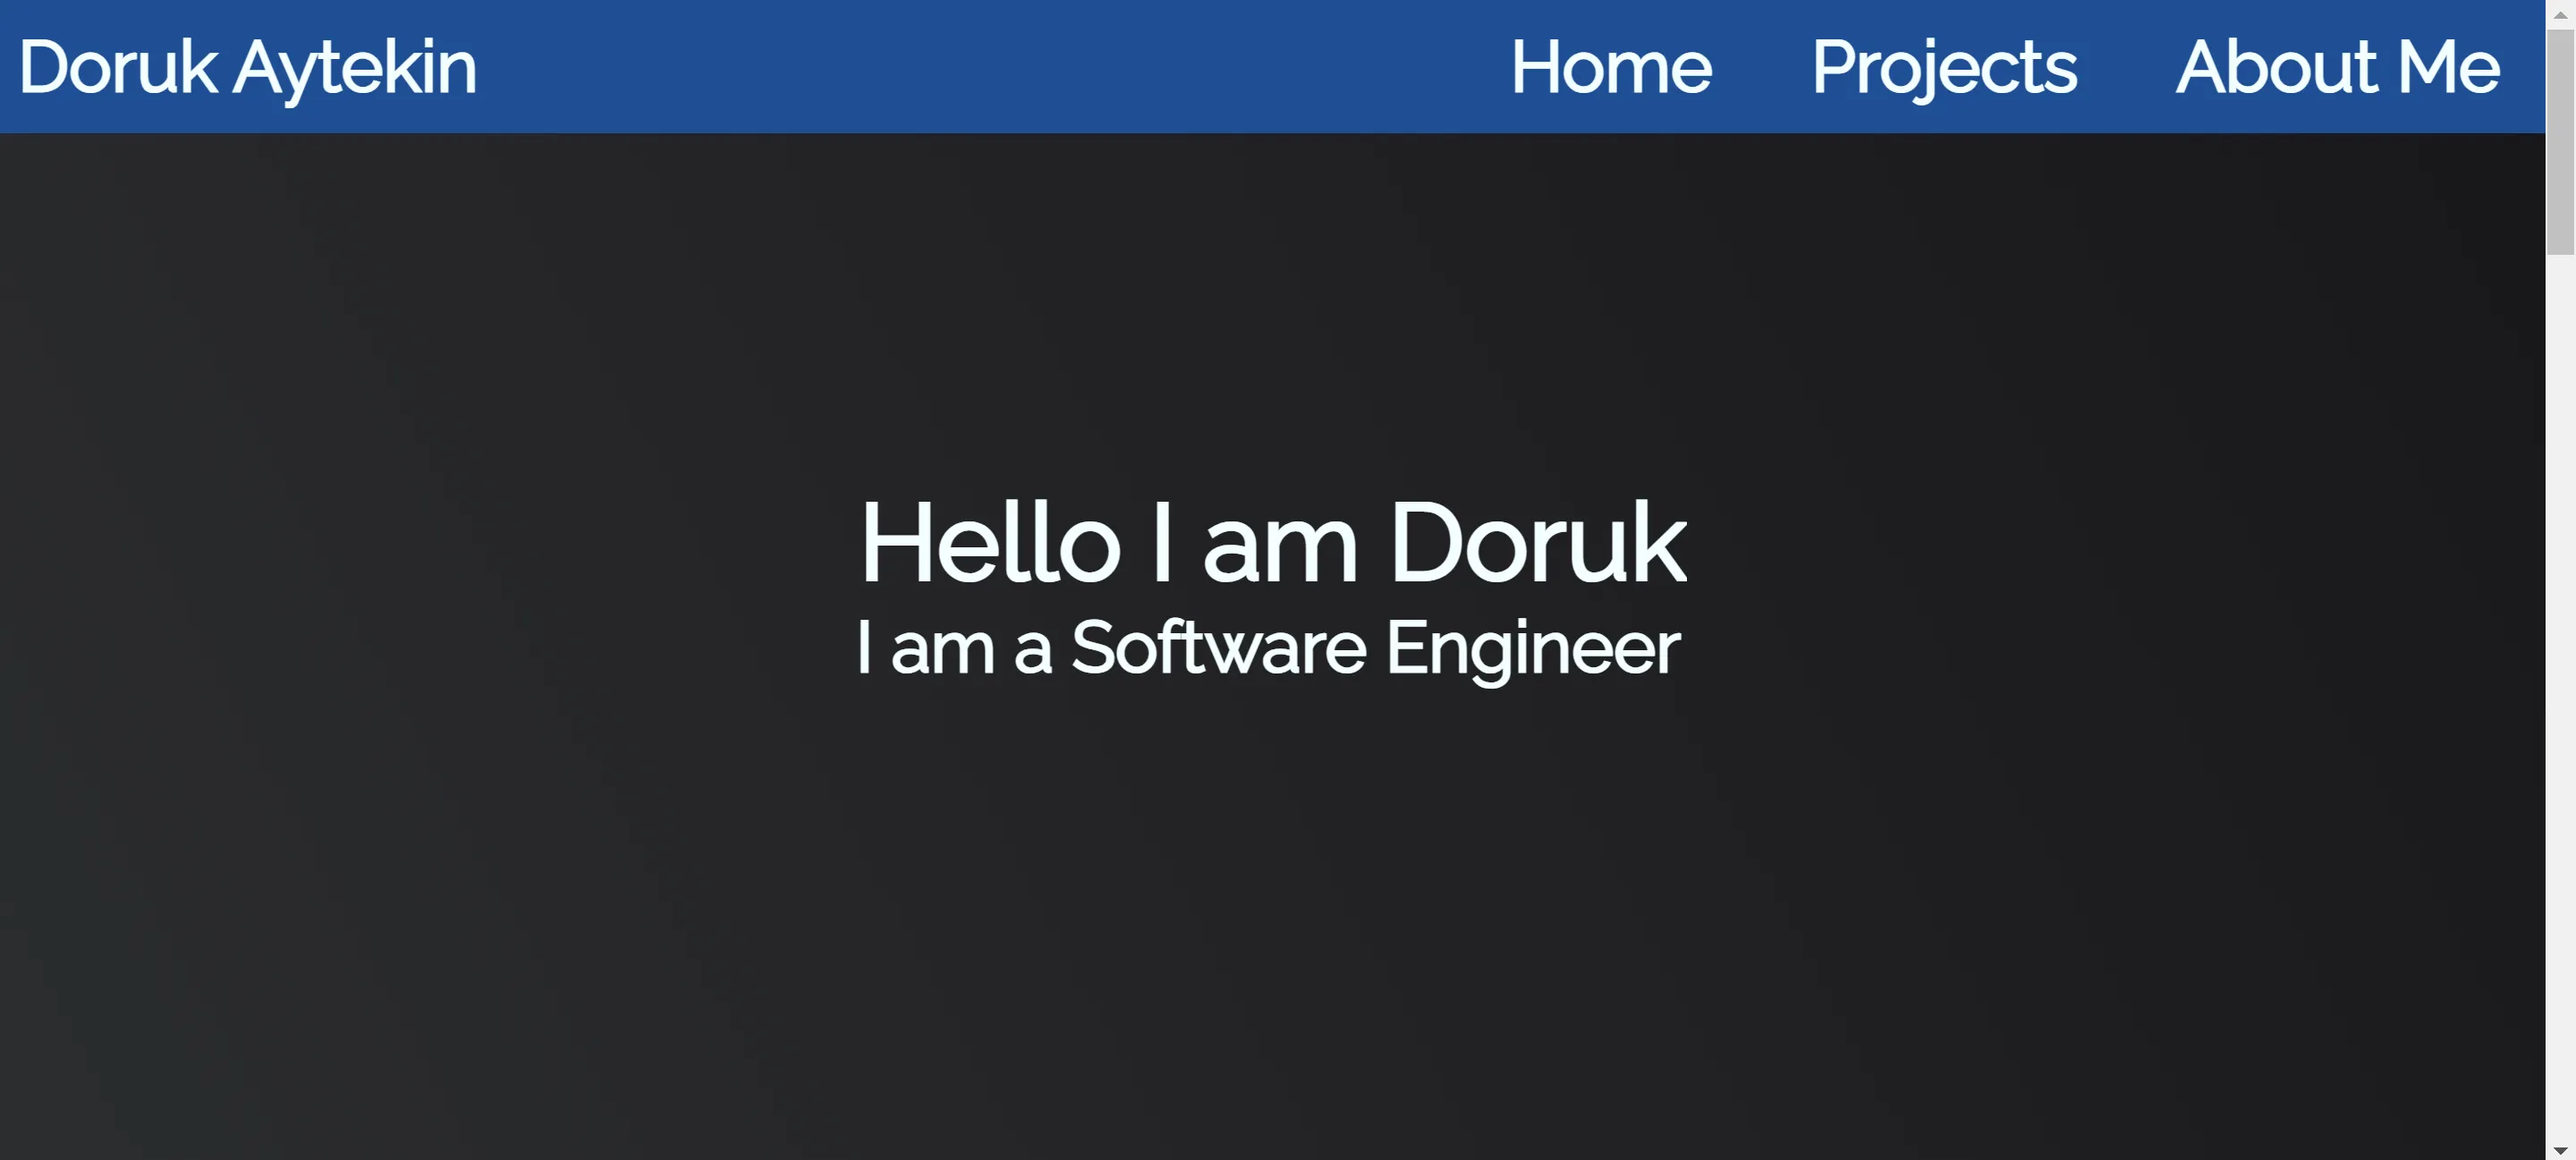
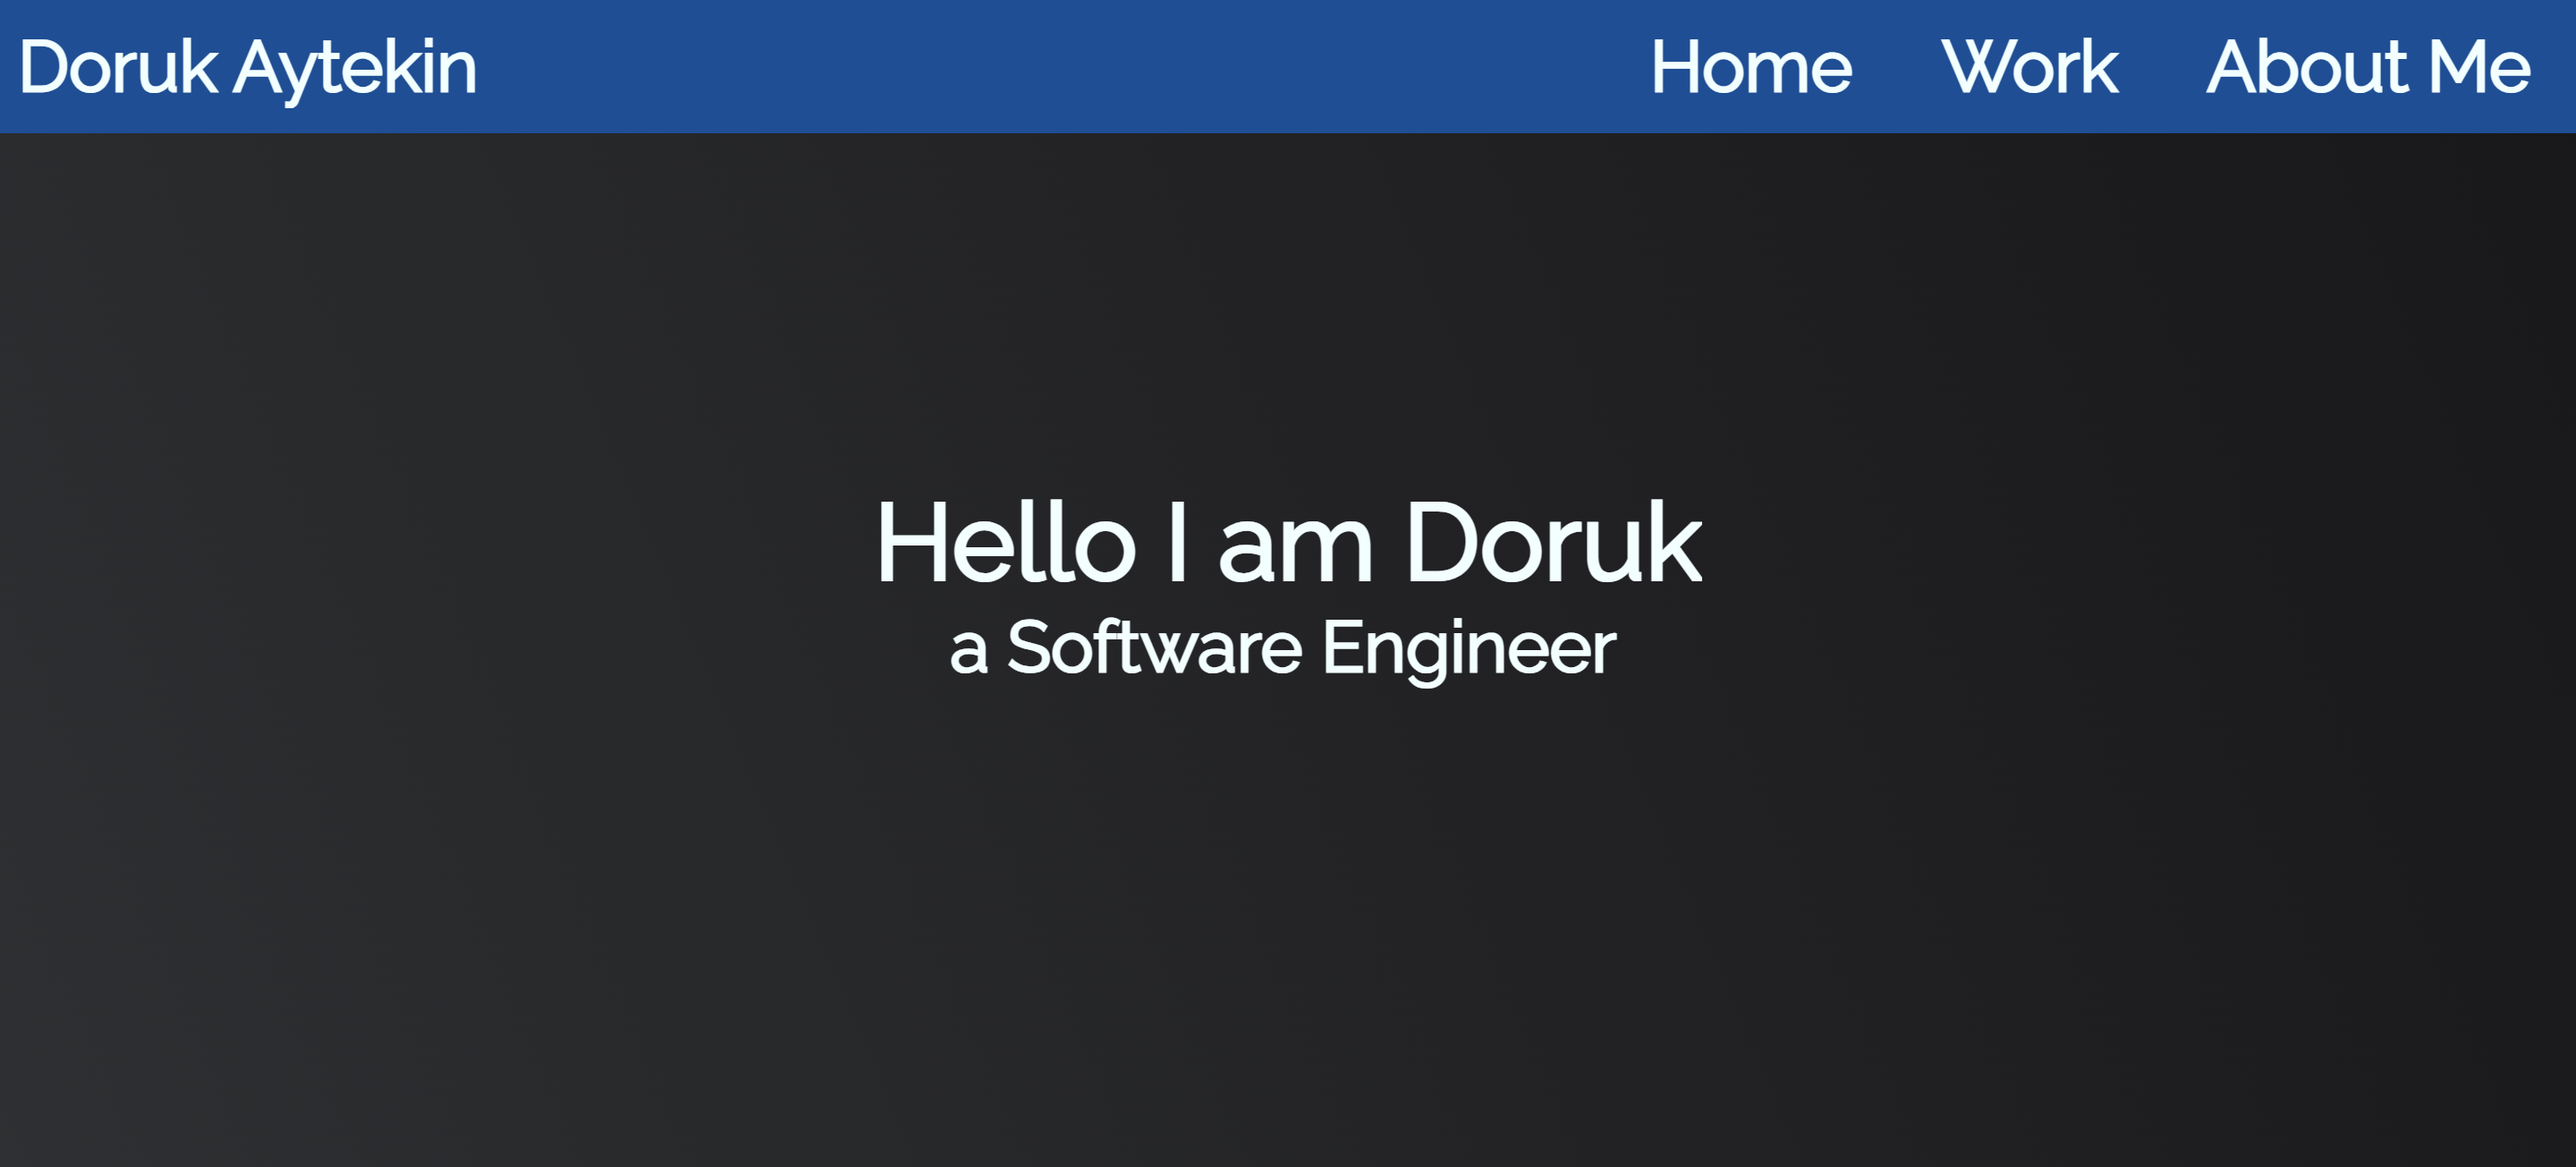
projects upates

Changed region(s): [[0.3125, 0.4318, 0.6562, 0.586], [0.8438, 0.0, 1.0, 1.0], [0.5625, 0.0308, 0.8125, 0.0925]]

diff --git a/src/App.css b/src/App.css
@@ -19,7 +19,6 @@
     color: azure;
 }
 .nav-links a{
-    
     color: azure;
     padding-right: 50px;
     font-size: 2rem;
@@ -27,10 +26,8 @@
     font-weight: 600;
 }
 .nav-links a:last-of-type{
-
     padding-right: 25px;
 }
-
 .home-text{
     height: 100vh;
     width: 100%;
@@ -61,21 +58,19 @@
 }
 #work::-webkit-scrollbar {
     width: 12px;
-    height: 15px;
+    height: 17px;
 }
-
 #work::-webkit-scrollbar-track {
     border-radius: 8px;
     background-color: #95a5a6;
     border: 1px solid #cacaca;
 }
-
 #work::-webkit-scrollbar-thumb {
     border-radius: 8px;
     background-color: #2c3e50;
 }
 .project-title{
-    padding-top: 75px;
+    padding-top: 85px;
     text-align: center;
     box-sizing: content-box;
     align-items: center;
@@ -83,7 +78,8 @@
     color: azure;
     font-size: 4rem;
     width: 100vw;
-    margin: 5vh auto;
+    margin: 0 auto;
+    margin-bottom: 5vh;
 }
 .project-div{
     flex: 0 0 auto;
@@ -92,6 +88,7 @@
     border:5px #004F98 solid;
     margin:10px auto;
     width:300px;
+    padding: 3px;
     
 }
 .project-img{
@@ -107,6 +104,8 @@
     width: fit-content;
     margin: 0 auto; 
     margin: 20px auto;
+    font-size: 2.3rem;
+    color: azure;
 }
 .project-a{
     text-decoration: none;
@@ -123,23 +122,22 @@
     background-color: hsl(209, 100%, 30%);
     border-radius: 5px;;
     margin-top: 20px;
+    font-weight: 600;
+    font-size: 1.7rem;;
 }
 #about-me{
-    padding-top: 75px;
+    padding-top: 85px;
 }
 .about-me-title{
     color: azure;
     text-align: center;
     font-size: 4rem;
-    
-    
 }
 .social-accounts-div{
     display: flex;
     flex-wrap: wrap;
     width: 100%;
     height: fit-content;
-
 }
 .social-accounts-a{
     width:70px;
@@ -147,7 +145,6 @@
 }
 .social-accounts-a img:hover{
     filter: invert(100%) sepia(100%) saturate(0%) hue-rotate(0deg) brightness(95%) contrast(97%);
-    /* background-color: #004F98; */
 }
 .certificates{
     display: flex;
@@ -175,7 +172,6 @@
     margin-bottom:5vh;
 }
 .footer{
-    /* background: linear-gradient(62deg, #3a3d40 0%, #181719 100%); */
     border-top: #eee 5px solid;
     margin-top: 10vh;
     display: flex;
@@ -185,14 +181,6 @@
     width: 100%;
 }
 @media screen and (max-width: 870px) {
-   
-    .nav-bar-p{
-        font-weight: bold;
-        padding-left: 10px;
-        font-size: 3rem;
-
-        color: azure;
-    }
     .nav-bar{
         width: 100vw;
         display: flex;
@@ -202,48 +190,42 @@
         background-color: hsl(209, 100%, 30%);
         height: fit-content;  
     }
+    .project-title{
+        padding-top: 95px;
+    }
+    #about-me{
+        padding-top: 95px;
+    }
     #work::-webkit-scrollbar {
         display: none;
     }
-    
 }
 @media screen and (max-width: 580px) {
-    
     .nav-bar-p{
         font-weight: bold;
         padding-left: 10px;
         font-size: 3rem;
-
         color: azure;
     }
     .nav-bar{
-        position: absolute;
         display: flex;
         flex-direction: column;
         justify-content: center;
         align-items: center;
-        background-color: hsl(209, 100%, 30%);
-        height: fit-content;  
     }
     .nav-links{
         display: flex;
         flex-direction: column;
     }
     .nav-links a{
-        color: azure;
         text-align: center;
         padding-right: 0px;
-        font-size: 2rem;
-        text-decoration: none;
-        font-weight: 600;
     }
     .nav-links a:last-of-type{
-        color: azure;
         padding-right: 0px;
-        font-size: 2rem;
-        text-decoration: none;
-
-        font-weight: 600;
+    }
+    .project-title{
+        padding-top: 140px;
     }
     .social-accounts-a{
         width:50px;
@@ -252,17 +234,14 @@
     #work::-webkit-scrollbar {
         display: none;
     }
+    #about-me{
+        padding-top: 140px;
+    }
     .certificate{
-        margin: 0;
-        padding: 0;
         width: 270px;
-        background-color:#fff;
-        border:solid 4vmin #111;
-        border-bottom-color:#000;
-        border-left-color:#111;
-        border-radius:10px;
-        border-right-color:#111;
-        border-top-color:#222;
-        box-shadow:0 0 5px 0 rgba(0,0,0,.25) inset, 0 5px 10px 5px rgba(0,0,0,.25);
+    }
+    .project-a p{
+        font-weight: 600;
+        font-size: 2rem;;
     }
 }

diff --git a/src/Components/Projects.jsx b/src/Components/Projects.jsx
@@ -27,7 +27,7 @@ class Project extends React.Component {
         return(
             <div className="project-div">
                 <img className="project-img" src={this.props.img} alt=""/>
-                <p className="project-p">{this.props.description}</p>
+                <h3 className="project-p">{this.props.description}</h3>
                 <a className="project-a" href="#"><p>Show More</p></a>
             </div>
         );

diff --git a/src/index.css b/src/index.css
@@ -4,7 +4,6 @@
     scroll-behavior: smooth;
     font-size: 20px;
     overflow-x: hidden;
-    
 }
 body{
     font-family:Raleway;
@@ -19,7 +18,6 @@ p{
     font-weight: 500;
     pointer-events: none;
 }
-
 a:hover{
     text-decoration: underline;
 }
@@ -34,7 +32,6 @@ h1{
         font-size: 18px;
         overflow-x: hidden;
     }
-    
 }
 @media screen and (max-width: 580px) {
     *{
